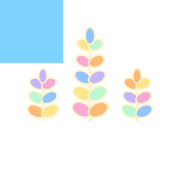
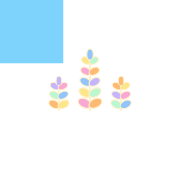
Add files via upload

Changed region(s): [[0.1389, 0.1389, 0.8611, 0.6944]]

diff --git a/index.html b/index.html
@@ -33,6 +33,9 @@ h1{font-size:22px;margin:8px 0 2px;color:#0369a1}
 .hero-ears{display:block;height:74px;margin:0 auto}
 .hero h1{margin:2px 0 0;font-size:26px;color:#fff;letter-spacing:2px;font-weight:normal;text-shadow:0 0 1px #fff}
 .hero .btn.mini{position:absolute;top:8px;right:8px;width:auto}
+.mylevel{text-align:center;margin:10px 0 0;font-size:15px;color:#075985;background:#fff;border-radius:12px;padding:9px 8px;box-shadow:0 1px 4px rgba(3,105,161,.12)}
+.mylevel b{color:#0369a1;font-size:18px}.mylevel .st{color:#f59e0b;letter-spacing:1px}
+.wl{display:flex;gap:8px;padding:5px 0;border-bottom:1px dashed #bae6fd;font-size:14px}.wl .w{flex:0 0 38%;font-weight:bold;color:#075985}.wl .m{flex:1;color:#334155}.wl .t{font-size:11px;color:#64748b}
 .head{display:flex;align-items:center;justify-content:space-between;margin:0 0 10px}
 .head h1{margin:0;font-size:20px}
 .btn.mini{display:inline-block;width:auto;padding:4px 14px;font-size:13px;border-radius:999px}
@@ -88,7 +91,7 @@ h1{font-size:22px;margin:8px 0 2px;color:#0369a1}
 <button class="topbtn hidden" id="topBtn">▲ トップページ</button>
 
 <div id="setup">
-  <div class="hero"><svg class="hero-ears" viewBox="60 70 392 285" aria-hidden="true"><line x1="256" y1="342" x2="256" y2="92.0" stroke="#fff1c9" stroke-width="9.0" stroke-linecap="round"/><ellipse cx="232.6" cy="312.0" rx="30.0" ry="19.0" transform="rotate(28 232.6 312.0)" fill="#f9a8d4" stroke="#fff1c9" stroke-width="5.0"/><ellipse cx="279.4" cy="312.0" rx="30.0" ry="19.0" transform="rotate(-28 279.4 312.0)" fill="#fdba74" stroke="#fff1c9" stroke-width="5.0"/><ellipse cx="234.3" cy="266.0" rx="27.8" ry="17.8" transform="rotate(28 234.3 266.0)" fill="#fde68a" stroke="#fff1c9" stroke-width="5.0"/><ellipse cx="277.7" cy="266.0" rx="27.8" ry="17.8" transform="rotate(-28 277.7 266.0)" fill="#bbf7d0" stroke="#fff1c9" stroke-width="5.0"/><ellipse cx="236.0" cy="220.0" rx="25.6" ry="16.6" transform="rotate(28 236.0 220.0)" fill="#93c5fd" stroke="#fff1c9" stroke-width="5.0"/><ellipse cx="276.0" cy="220.0" rx="25.6" ry="16.6" transform="rotate(-28 276.0 220.0)" fill="#c4b5fd" stroke="#fff1c9" stroke-width="5.0"/><ellipse cx="237.7" cy="174.0" rx="23.4" ry="15.4" transform="rotate(28 237.7 174.0)" fill="#f9a8d4" stroke="#fff1c9" stroke-width="5.0"/><ellipse cx="274.3" cy="174.0" rx="23.4" ry="15.4" transform="rotate(-28 274.3 174.0)" fill="#fdba74" stroke="#fff1c9" stroke-width="5.0"/><ellipse cx="239.5" cy="128.0" rx="21.2" ry="14.2" transform="rotate(28 239.5 128.0)" fill="#fde68a" stroke="#fff1c9" stroke-width="5.0"/><ellipse cx="272.5" cy="128.0" rx="21.2" ry="14.2" transform="rotate(-28 272.5 128.0)" fill="#bbf7d0" stroke="#fff1c9" stroke-width="5.0"/><ellipse cx="256" cy="102.0" rx="14.0" ry="24.0" fill="#93c5fd" stroke="#fff1c9" stroke-width="5.0"/><line x1="122" y1="342" x2="122" y2="207.7" stroke="#fff1c9" stroke-width="7.6" stroke-linecap="round"/><ellipse cx="102.1" cy="316.5" rx="25.5" ry="16.1" transform="rotate(28 102.1 316.5)" fill="#fdba74" stroke="#fff1c9" stroke-width="4.2"/><ellipse cx="141.9" cy="316.5" rx="25.5" ry="16.1" transform="rotate(-28 141.9 316.5)" fill="#fde68a" stroke="#fff1c9" stroke-width="4.2"/><ellipse cx="103.6" cy="277.4" rx="23.6" ry="15.1" transform="rotate(28 103.6 277.4)" fill="#bbf7d0" stroke="#fff1c9" stroke-width="4.2"/><ellipse cx="140.4" cy="277.4" rx="23.6" ry="15.1" transform="rotate(-28 140.4 277.4)" fill="#93c5fd" stroke="#fff1c9" stroke-width="4.2"/><ellipse cx="105.0" cy="238.3" rx="21.8" ry="14.1" transform="rotate(28 105.0 238.3)" fill="#c4b5fd" stroke="#fff1c9" stroke-width="4.2"/><ellipse cx="139.0" cy="238.3" rx="21.8" ry="14.1" transform="rotate(-28 139.0 238.3)" fill="#f9a8d4" stroke="#fff1c9" stroke-width="4.2"/><ellipse cx="122" cy="216.2" rx="11.9" ry="20.4" fill="#c4b5fd" stroke="#fff1c9" stroke-width="4.2"/><line x1="390" y1="342" x2="390" y2="207.7" stroke="#fff1c9" stroke-width="7.6" stroke-linecap="round"/><ellipse cx="370.1" cy="316.5" rx="25.5" ry="16.1" transform="rotate(28 370.1 316.5)" fill="#bbf7d0" stroke="#fff1c9" stroke-width="4.2"/><ellipse cx="409.9" cy="316.5" rx="25.5" ry="16.1" transform="rotate(-28 409.9 316.5)" fill="#93c5fd" stroke="#fff1c9" stroke-width="4.2"/><ellipse cx="371.6" cy="277.4" rx="23.6" ry="15.1" transform="rotate(28 371.6 277.4)" fill="#c4b5fd" stroke="#fff1c9" stroke-width="4.2"/><ellipse cx="408.4" cy="277.4" rx="23.6" ry="15.1" transform="rotate(-28 408.4 277.4)" fill="#f9a8d4" stroke="#fff1c9" stroke-width="4.2"/><ellipse cx="373.0" cy="238.3" rx="21.8" ry="14.1" transform="rotate(28 373.0 238.3)" fill="#fdba74" stroke="#fff1c9" stroke-width="4.2"/><ellipse cx="407.0" cy="238.3" rx="21.8" ry="14.1" transform="rotate(-28 407.0 238.3)" fill="#fde68a" stroke="#fff1c9" stroke-width="4.2"/><ellipse cx="390" cy="216.2" rx="11.9" ry="20.4" fill="#fdba74" stroke="#fff1c9" stroke-width="4.2"/></svg><h1>言葉アップ</h1><button class="btn mini" id="jitsuBtn">実力テスト</button></div>
+  <div class="hero"><svg class="hero-ears" viewBox="60 70 392 285" aria-hidden="true"><line x1="256" y1="342" x2="256" y2="92.0" stroke="#fff1c9" stroke-width="9.0" stroke-linecap="round"/><ellipse cx="232.6" cy="312.0" rx="30.0" ry="19.0" transform="rotate(28 232.6 312.0)" fill="#f9a8d4" stroke="#fff1c9" stroke-width="5.0"/><ellipse cx="279.4" cy="312.0" rx="30.0" ry="19.0" transform="rotate(-28 279.4 312.0)" fill="#fdba74" stroke="#fff1c9" stroke-width="5.0"/><ellipse cx="234.3" cy="266.0" rx="27.8" ry="17.8" transform="rotate(28 234.3 266.0)" fill="#fde68a" stroke="#fff1c9" stroke-width="5.0"/><ellipse cx="277.7" cy="266.0" rx="27.8" ry="17.8" transform="rotate(-28 277.7 266.0)" fill="#bbf7d0" stroke="#fff1c9" stroke-width="5.0"/><ellipse cx="236.0" cy="220.0" rx="25.6" ry="16.6" transform="rotate(28 236.0 220.0)" fill="#93c5fd" stroke="#fff1c9" stroke-width="5.0"/><ellipse cx="276.0" cy="220.0" rx="25.6" ry="16.6" transform="rotate(-28 276.0 220.0)" fill="#c4b5fd" stroke="#fff1c9" stroke-width="5.0"/><ellipse cx="237.7" cy="174.0" rx="23.4" ry="15.4" transform="rotate(28 237.7 174.0)" fill="#f9a8d4" stroke="#fff1c9" stroke-width="5.0"/><ellipse cx="274.3" cy="174.0" rx="23.4" ry="15.4" transform="rotate(-28 274.3 174.0)" fill="#fdba74" stroke="#fff1c9" stroke-width="5.0"/><ellipse cx="239.5" cy="128.0" rx="21.2" ry="14.2" transform="rotate(28 239.5 128.0)" fill="#fde68a" stroke="#fff1c9" stroke-width="5.0"/><ellipse cx="272.5" cy="128.0" rx="21.2" ry="14.2" transform="rotate(-28 272.5 128.0)" fill="#bbf7d0" stroke="#fff1c9" stroke-width="5.0"/><ellipse cx="256" cy="102.0" rx="14.0" ry="24.0" fill="#93c5fd" stroke="#fff1c9" stroke-width="5.0"/><line x1="122" y1="342" x2="122" y2="207.7" stroke="#fff1c9" stroke-width="7.6" stroke-linecap="round"/><ellipse cx="102.1" cy="316.5" rx="25.5" ry="16.1" transform="rotate(28 102.1 316.5)" fill="#fdba74" stroke="#fff1c9" stroke-width="4.2"/><ellipse cx="141.9" cy="316.5" rx="25.5" ry="16.1" transform="rotate(-28 141.9 316.5)" fill="#fde68a" stroke="#fff1c9" stroke-width="4.2"/><ellipse cx="103.6" cy="277.4" rx="23.6" ry="15.1" transform="rotate(28 103.6 277.4)" fill="#bbf7d0" stroke="#fff1c9" stroke-width="4.2"/><ellipse cx="140.4" cy="277.4" rx="23.6" ry="15.1" transform="rotate(-28 140.4 277.4)" fill="#93c5fd" stroke="#fff1c9" stroke-width="4.2"/><ellipse cx="105.0" cy="238.3" rx="21.8" ry="14.1" transform="rotate(28 105.0 238.3)" fill="#c4b5fd" stroke="#fff1c9" stroke-width="4.2"/><ellipse cx="139.0" cy="238.3" rx="21.8" ry="14.1" transform="rotate(-28 139.0 238.3)" fill="#f9a8d4" stroke="#fff1c9" stroke-width="4.2"/><ellipse cx="122" cy="216.2" rx="11.9" ry="20.4" fill="#c4b5fd" stroke="#fff1c9" stroke-width="4.2"/><line x1="390" y1="342" x2="390" y2="207.7" stroke="#fff1c9" stroke-width="7.6" stroke-linecap="round"/><ellipse cx="370.1" cy="316.5" rx="25.5" ry="16.1" transform="rotate(28 370.1 316.5)" fill="#bbf7d0" stroke="#fff1c9" stroke-width="4.2"/><ellipse cx="409.9" cy="316.5" rx="25.5" ry="16.1" transform="rotate(-28 409.9 316.5)" fill="#93c5fd" stroke="#fff1c9" stroke-width="4.2"/><ellipse cx="371.6" cy="277.4" rx="23.6" ry="15.1" transform="rotate(28 371.6 277.4)" fill="#c4b5fd" stroke="#fff1c9" stroke-width="4.2"/><ellipse cx="408.4" cy="277.4" rx="23.6" ry="15.1" transform="rotate(-28 408.4 277.4)" fill="#f9a8d4" stroke="#fff1c9" stroke-width="4.2"/><ellipse cx="373.0" cy="238.3" rx="21.8" ry="14.1" transform="rotate(28 373.0 238.3)" fill="#fdba74" stroke="#fff1c9" stroke-width="4.2"/><ellipse cx="407.0" cy="238.3" rx="21.8" ry="14.1" transform="rotate(-28 407.0 238.3)" fill="#fde68a" stroke="#fff1c9" stroke-width="4.2"/><ellipse cx="390" cy="216.2" rx="11.9" ry="20.4" fill="#fdba74" stroke="#fff1c9" stroke-width="4.2"/></svg><h1>言葉アップ</h1></div>
 
   <div class="card cmp">
     <div class="row"><span class="lb">種類</span><div class="pills" id="gType">
@@ -116,7 +119,11 @@ h1{font-size:22px;margin:8px 0 2px;color:#0369a1}
     <button class="btn" id="startBtn">テスト開始</button>
     <button class="btn sub2" id="weakBtn" style="margin-top:0">苦手 <span id="weakN">0</span>語</button>
   </div>
+  <button class="btn sub2" id="weakListBtn" style="margin-top:8px;font-size:13px;padding:7px" disabled>苦手単語の一覧を見る</button>
+  <div class="card hidden" id="weakList" style="margin-top:8px"><h2>苦手単語（単語と意味）</h2><div id="weakListBody"></div></div>
   <p class="weak" id="poolInfo"></p>
+  <button class="btn" id="jitsuBtn" style="margin-top:6px">実力テスト50問チャレンジ！</button>
+  <div class="mylevel" id="myLevel"></div>
 </div>
 
 <div id="quiz" class="hidden">
@@ -1379,6 +1386,33 @@ try{ weak=JSON.parse(localStorage.getItem(WK)||"{}"); }catch(e){ weak={}; }
 function saveWeak(){ try{ localStorage.setItem(WK,JSON.stringify(weak)); }catch(e){} }
 function weakCount(){ return Object.keys(weak).length; }
 
+/* ---- 今のレベル表示 ---- */
+const LK="goi_level_v1";
+function showMyLevel(){
+  let o=null; try{ o=JSON.parse(localStorage.getItem(LK)||"null"); }catch(e){}
+  const el=$("#myLevel");
+  if(!o){ el.innerHTML="実力テストに挑戦して、今のレベルを調べよう！"; return; }
+  if(!o.top){ el.innerHTML=`今のあなたのレベルは <b>${LV_NAME[1]}の手前</b>`; return; }
+  const k=o.pct>=90?3:o.pct>=80?2:1, nm=["","一つ星","二つ星","三つ星"][k];
+  el.innerHTML=`今のあなたのレベルは <b>${LV_NAME[o.top]}</b>　<span class="st">${"★".repeat(k)}</span>${nm}`;
+}
+function renderWeakList(){
+  const ws=Object.keys(weak).map(k=>BYKEY[k]).filter(Boolean).sort((a,b)=>a.lv-b.lv||a.t.localeCompare(b.t));
+  const box=$("#weakListBody"); box.innerHTML="";
+  ws.forEach(w=>{
+    const d=document.createElement("div"); d.className="wl";
+    d.innerHTML='<span class="w"></span><span class="m"></span>';
+    d.querySelector(".w").textContent=w.w+(w.r!==w.w?`（${w.r}）`:"");
+    const m=d.querySelector(".m"); m.textContent=w.m; const t=document.createElement("div"); t.className="t"; t.textContent=`${LV_NAME[w.lv]}・${TYPE_NAME[w.t]}`; m.appendChild(t);
+    box.appendChild(d);
+  });
+}
+$("#weakListBtn").onclick=()=>{
+  const c=$("#weakList"), open=c.classList.toggle("hidden")===false;
+  if(open) renderWeakList();
+  $("#weakListBtn").textContent=open?"苦手単語の一覧を閉じる":"苦手単語の一覧を見る";
+};
+
 /* ---- 設定UI ---- */
 function buildLv(){
   const g=$("#gLv"); g.innerHTML="";
@@ -1414,6 +1448,10 @@ function refresh(){
   $("#poolInfo").textContent = st.lvs.size ? `この範囲の語数：${n}語（全${WORDS.length}語）` : "学年を選んでください（複数OK）";
   $("#weakN").textContent=weakCount();
   $("#weakBtn").disabled = weakCount()===0;
+  $("#weakListBtn").disabled = weakCount()===0;
+  if(weakCount()===0) $("#weakList").classList.add("hidden");
+  else if(!$("#weakList").classList.contains("hidden")) renderWeakList();
+  showMyLevel();
   $("#startBtn").disabled = n<4;
 }
 
@@ -1533,6 +1571,7 @@ function renderLevel(){
     h+=`<div class="lrow"><span class="n">${LV_NAME[lv]}</span><span class="b"><i class="${p>=70?"hi":""}" style="width:${p}%"></i></span><span class="p">${p}%（${o.c}/${o.n}）</span></div>`; }
   h+=`<div class="lrow" style="margin-top:14px"><span class="n" style="flex:0 0 auto">A 説明文</span><span class="p" style="text-align:left">${pc(ab.A)}%（${ab.A.c}/${ab.A.n}）</span><span class="n" style="flex:0 0 auto;margin-left:10px">B 物語文</span><span class="p" style="text-align:left">${pc(ab.B)}%（${ab.B.c}/${ab.B.n}）</span></div>`;
   $("#rBars").innerHTML=h;
+  try{ localStorage.setItem(LK,JSON.stringify({top:top,pct:top?pc(per[top]):0})); }catch(e){}
 }
 function finish(){
   clearInterval(timer);
